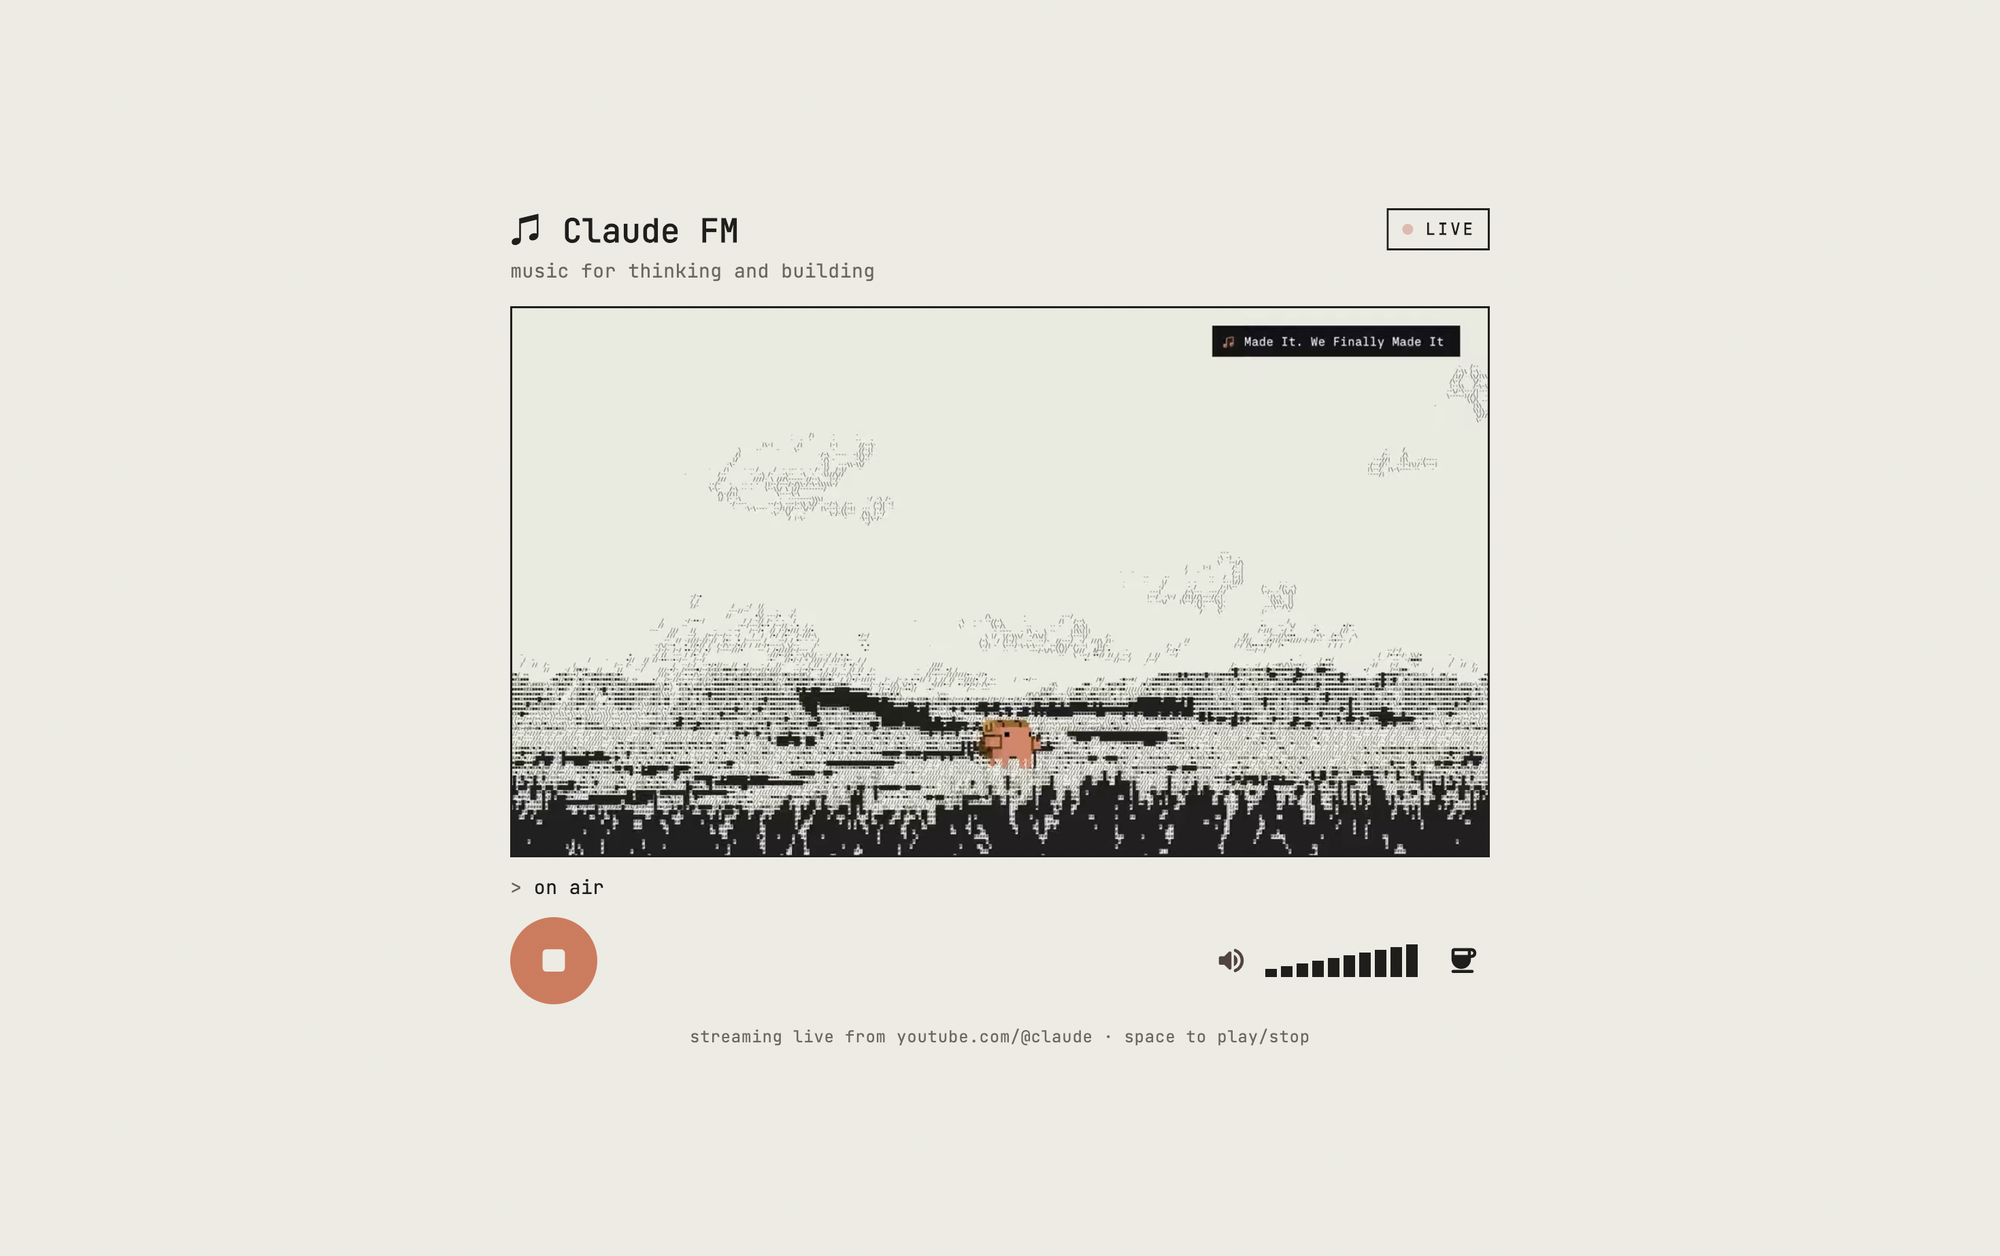
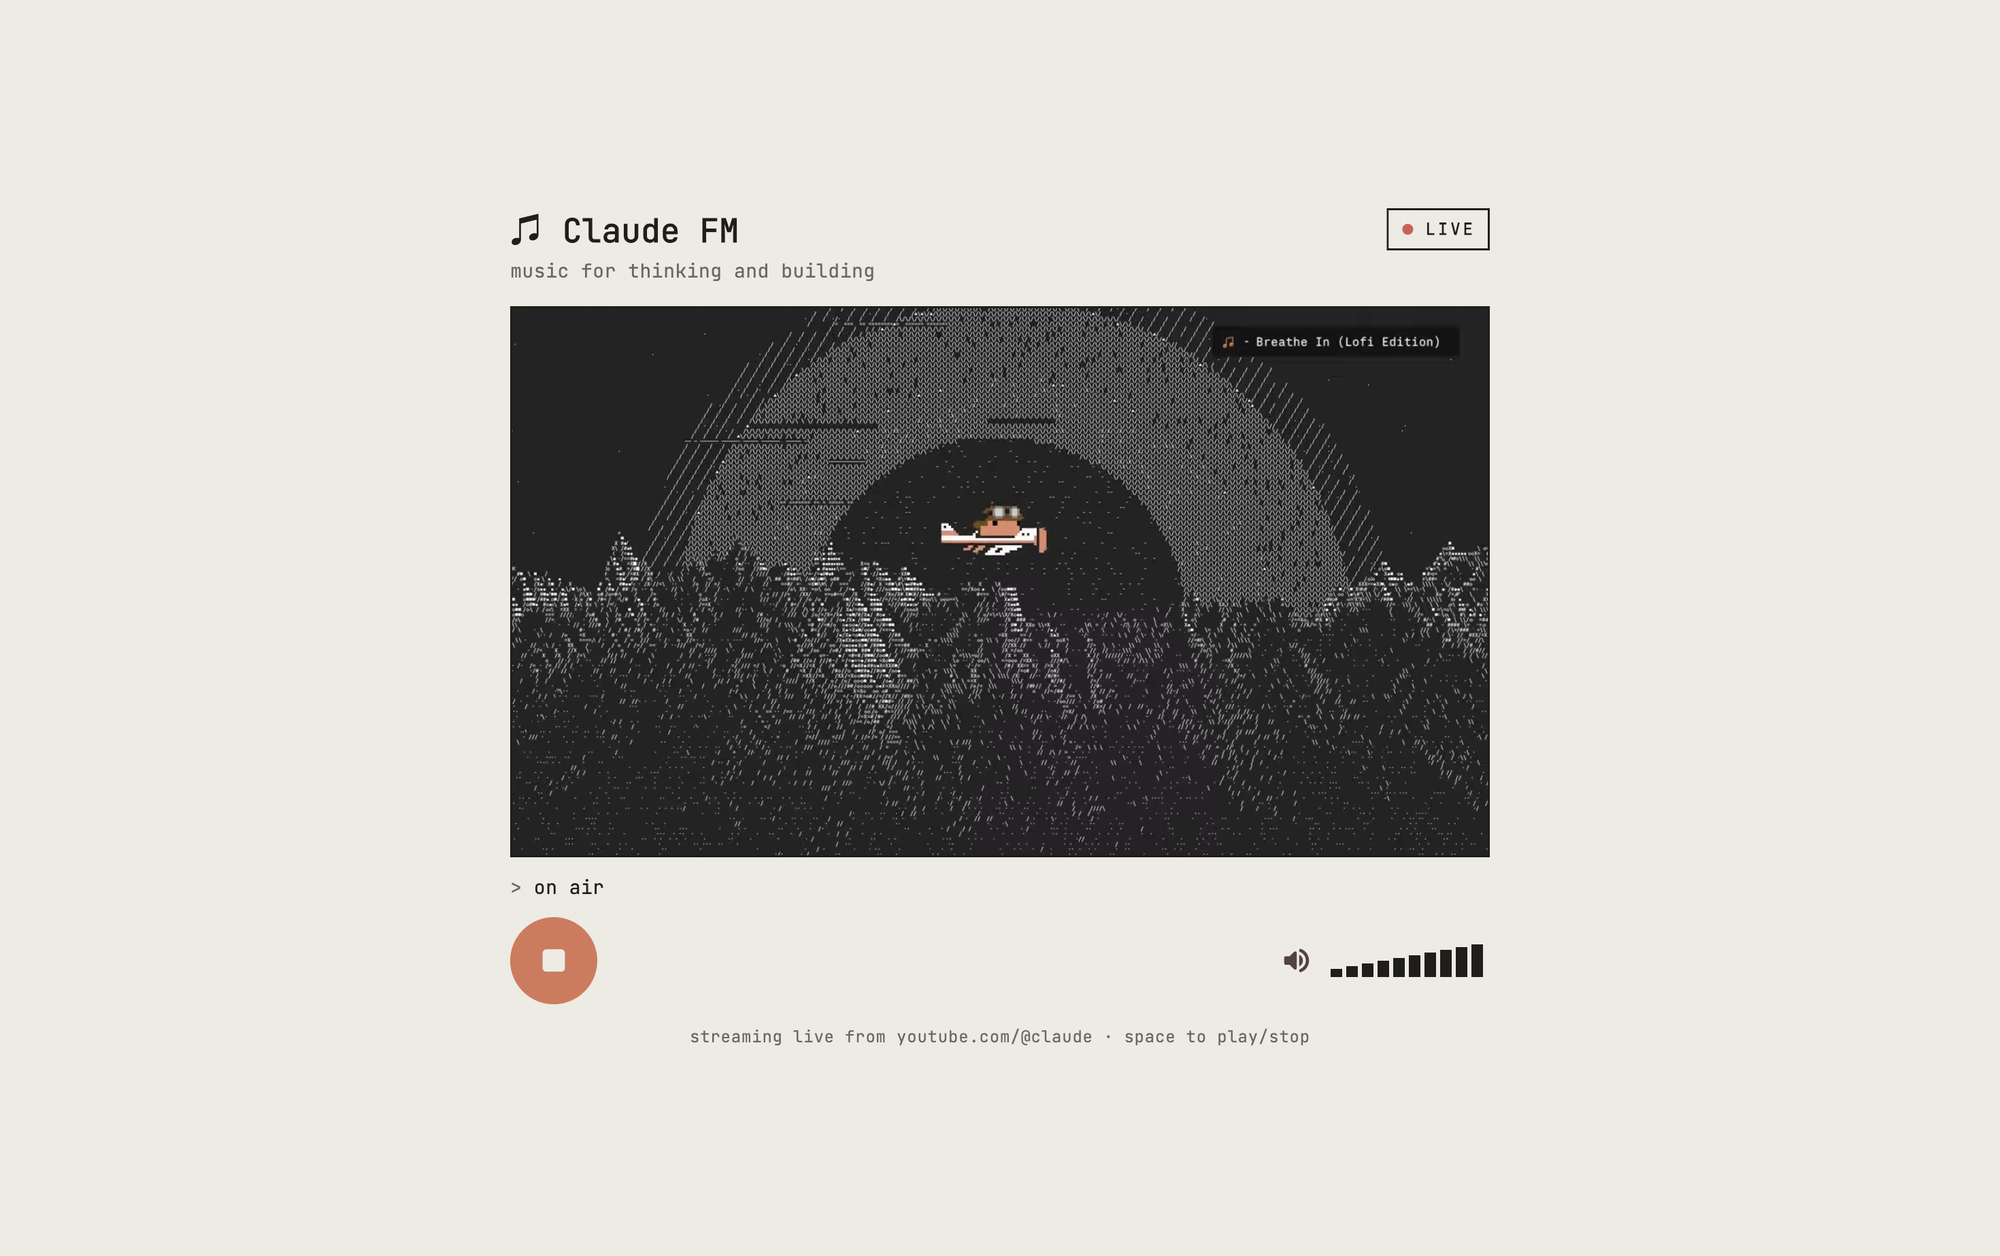
Show controls only where they work; record platform tests
- Show the keep-awake (coffee cup) toggle only on iOS. On Android,
  macOS and web the web view or browser already keeps the screen awake
  while the video plays.
- Drop the "use the volume buttons" text on iOS, leaving just mute.
- README: mark iOS as tested in the simulator, describe the screen
  staying awake per platform, remove the done to-do, and use a new
  screenshot.

Changed region(s): [[0.248, 0.2174, 0.744, 0.6831], [0.589, 0.7452, 0.744, 0.7763]]

diff --git a/lib/player/player_screen.dart b/lib/player/player_screen.dart
@@ -41,6 +41,12 @@ class _PlayerScreenState extends State<PlayerScreen>
   /// player ignores setVolume there (in the app and in mobile Safari).
   bool get _canSetVolume => defaultTargetPlatform != TargetPlatform.iOS;
 
+  /// On Android, macOS and web, the web view or browser already keeps the
+  /// display awake while the video plays, so the keep-awake toggle would do
+  /// nothing there.
+  bool get _hasKeepAwake =>
+      !kIsWeb && defaultTargetPlatform == TargetPlatform.iOS;
+
   bool get _isMobile =>
       !kIsWeb &&
       (defaultTargetPlatform == TargetPlatform.android ||
@@ -165,7 +171,7 @@ class _PlayerScreenState extends State<PlayerScreen>
   }
 
   void _syncWakelock() {
-    final want = _keepAwake && _status.isActive;
+    final want = _hasKeepAwake && _keepAwake && _status.isActive;
     if (want == _wakelockHeld) return;
     _wakelockHeld = want;
     unawaited(WakelockPlus.toggle(enable: want));
@@ -344,9 +350,6 @@ class _PlayerScreenState extends State<PlayerScreen>
   }
 
   Widget _buildControls(BuildContext context) {
-    final muted = Theme.of(context).textTheme.bodySmall
-        ?.copyWith(color: CfmColors.inkMuted);
-
     return Row(
       children: [
         IconButton.filled(
@@ -372,20 +375,24 @@ class _PlayerScreenState extends State<PlayerScreen>
                 : Icons.volume_up_rounded,
           ),
         ),
+        // iOS has no volume bars: only the hardware buttons change the volume.
         if (_canSetVolume)
-          VolumeMeter(volume: _volume, muted: _muted, onChanged: _setVolume)
-        else
-          Flexible(child: Text('use the volume buttons', style: muted)),
-        const SizedBox(width: 8),
-        IconButton(
-          onPressed: _toggleKeepAwake,
-          isSelected: _keepAwake,
-          tooltip: _keepAwake
-              ? 'Keeping screen awake while playing'
-              : 'Screen may sleep while playing',
-          icon: const Icon(Icons.coffee_outlined, color: CfmColors.inkMuted),
-          selectedIcon: const Icon(Icons.coffee_rounded, color: CfmColors.ink),
-        ),
+          VolumeMeter(volume: _volume, muted: _muted, onChanged: _setVolume),
+        if (_hasKeepAwake) ...[
+          const SizedBox(width: 8),
+          IconButton(
+            onPressed: _toggleKeepAwake,
+            isSelected: _keepAwake,
+            tooltip: _keepAwake
+                ? 'Keeping screen awake while playing'
+                : 'Screen may sleep while playing',
+            icon: const Icon(Icons.coffee_outlined, color: CfmColors.inkMuted),
+            selectedIcon: const Icon(
+              Icons.coffee_rounded,
+              color: CfmColors.ink,
+            ),
+          ),
+        ],
       ],
     );
   }

diff --git a/README.md b/README.md
@@ -20,8 +20,9 @@ stream.
   switching apps shrinks CFM into a floating video window and the music keeps
   going. Tap the window to come back, or drag it away to close it, which stops
   the music.
-- **Keep screen awake** (coffee cup button). Stops the screen from sleeping
-  while music is playing.
+- **Screen stays awake while music plays.** On Android, macOS and web the
+  system does this by itself while the video plays. On iOS there's a coffee
+  cup button for it.
 - **Space bar** plays and stops on desktop and web.
 - **Layouts that fit the screen.**
   - Desktop, tablet and web: the video is sized so the controls are always
@@ -37,7 +38,7 @@ stream.
 | Android | ✅ Tested on a Pixel 8 (Android 17), including picture-in-picture |
 | macOS | ✅ Tested |
 | Web | ✅ Tested in Chrome |
-| iOS | Should work, not tested yet. No picture-in-picture: iOS can't put the embedded YouTube player into PiP. The volume bars are replaced by "use the volume buttons", because iOS only allows hardware volume for embedded video |
+| iOS | ✅ Tested in the simulator (iPhone Air, iOS 27). No picture-in-picture: iOS can't put the embedded YouTube player into PiP. No volume bars, only mute: iOS only lets the hardware buttons change the volume of embedded video |
 | Windows / Linux | ❌ Not supported: the embedded web view this player needs isn't available there |
 
 ## How it works and its limits
@@ -54,7 +55,6 @@ or hiding the video. That also means:
   keeps the music going while you use other apps, because the video stays
   visible. When the app is fully hidden (the PiP window is closed or the
   screen locks), the music stops. That's YouTube's rule for embedded players.
-  Keep the coffee-cup toggle on during long sessions.
 - **No track list or seeking.** It's a live stream. The current song title is
   drawn inside the video, so the app can't read it as text.
 
@@ -96,12 +96,6 @@ lib/
 
 To point the app at a different YouTube live stream, change `videoId` in
 `lib/player/station.dart`.
-
-## To do
-
-- [ ] **App icon.** Replace Flutter's default icon with a CFM icon in the
-  app's style, for macOS, Android, iOS and web (browser-tab favicon and
-  install icons).
 
 ## Disclaimer
 
